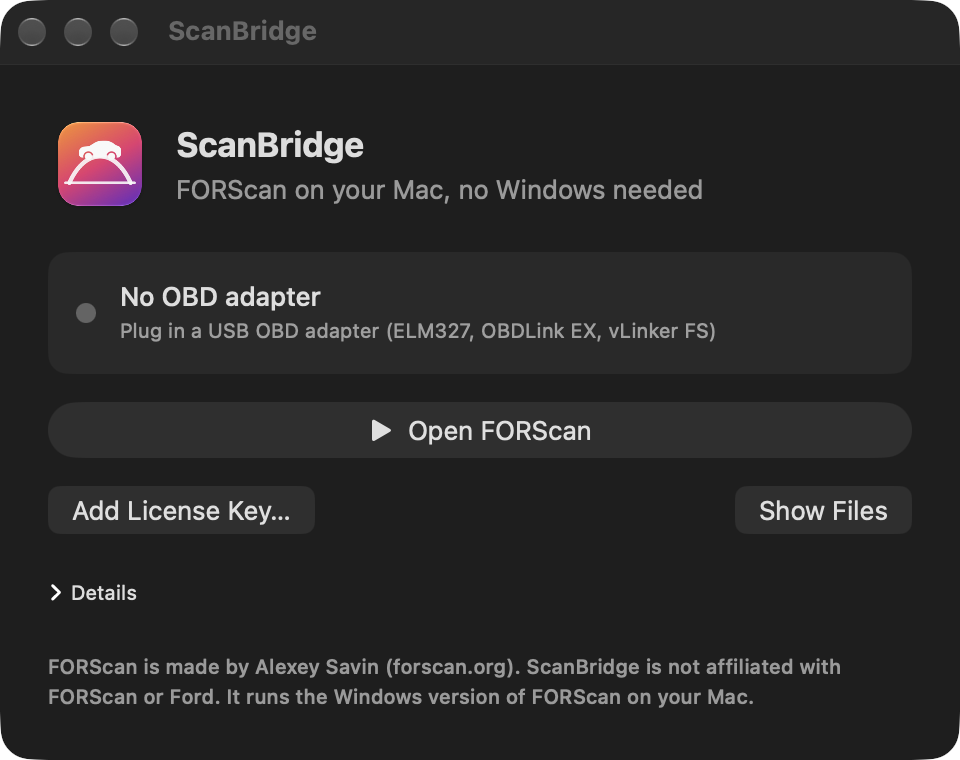
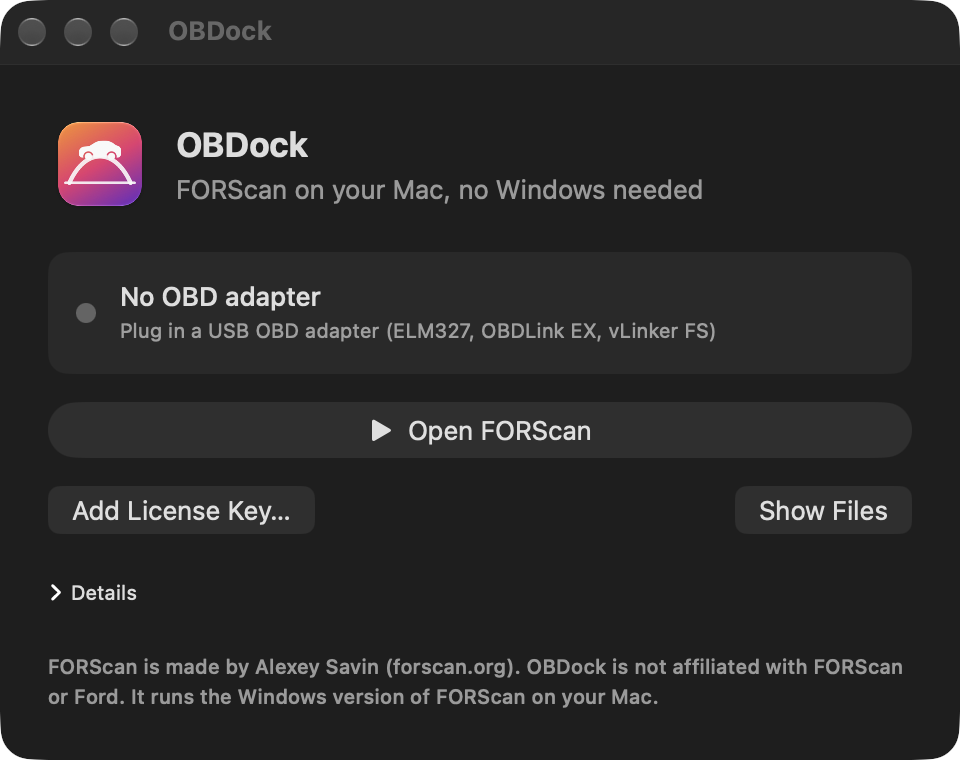
Rename ScanBridge to OBDock (0.1.1); move existing setup folder on first launch

Changed region(s): [[0.0312, 0.8474, 0.9375, 0.9382], [0.1875, 0.1513, 0.375, 0.2118], [0.1562, 0.0303, 0.3438, 0.0605]]

diff --git a/site/index.html b/site/index.html
@@ -3,7 +3,7 @@
 <head>
 <meta charset="utf-8">
 <meta name="viewport" content="width=device-width, initial-scale=1">
-<title>ScanBridge: FORScan on Mac</title>
+<title>OBDock: FORScan on Mac</title>
 <meta name="description" content="Run FORScan on an Apple Silicon Mac. Free, no Windows, no virtual machine. Reads and As-Built writes tested on a real Ford.">
 <link rel="icon" href="img/icon.png">
 <link rel="preconnect" href="https://fonts.googleapis.com">
@@ -83,44 +83,44 @@ footer p + p { margin-top: 8px; }
 <body>
 <div class="wrap">
   <nav>
-    <a class="brand" href="#"><img src="img/icon.png" alt="">ScanBridge</a>
+    <a class="brand" href="#"><img src="img/icon.png" alt="">OBDock</a>
     <div class="links">
       <a href="#how">How it works</a>
       <a href="#tested">Tested</a>
       <a href="#faq">FAQ</a>
-      <a href="https://github.com/lncch/ScanBridge">GitHub</a>
+      <a href="https://github.com/lncch/OBDock">GitHub</a>
     </div>
   </nav>
 
   <header class="hero">
     <span class="pill"><b>●</b> Reads and As-Built writes tested on a real Ford</span>
     <h1>FORScan on your Mac.<br>No Windows needed.</h1>
-    <p>ScanBridge sets up everything FORScan needs on an Apple Silicon Mac, finds your OBD adapter, and opens FORScan with one click. Free.</p>
+    <p>OBDock sets up everything FORScan needs on an Apple Silicon Mac, finds your OBD adapter, and opens FORScan with one click. Free.</p>
     <div class="cta">
-      <a class="btn primary" href="https://github.com/lncch/ScanBridge/releases/latest/download/ScanBridge.zip">Download for Mac</a>
-      <a class="btn" href="https://github.com/lncch/ScanBridge">View source</a>
+      <a class="btn primary" href="https://github.com/lncch/OBDock/releases/latest/download/OBDock.zip">Download for Mac</a>
+      <a class="btn" href="https://github.com/lncch/OBDock">View source</a>
     </div>
-    <p class="req">Apple Silicon · macOS 14 or later · USB OBD adapter · v0.1.0</p>
+    <p class="req">Apple Silicon · macOS 14 or later · USB OBD adapter · v0.1.1</p>
   </header>
 
   <div class="shots">
-    <figure><img src="img/setup.png" alt="ScanBridge one-time setup screen with Rosetta, Wine and FORScan steps"><figcaption>One-time setup, about 2 minutes</figcaption></figure>
-    <figure><img src="img/main.png" alt="ScanBridge main screen with adapter status and Open FORScan button"><figcaption>Plug in, click Open FORScan</figcaption></figure>
+    <figure><img src="img/setup.png" alt="OBDock one-time setup screen with Rosetta, Wine and FORScan steps"><figcaption>One-time setup, about 2 minutes</figcaption></figure>
+    <figure><img src="img/main.png" alt="OBDock main screen with adapter status and Open FORScan button"><figcaption>Plug in, click Open FORScan</figcaption></figure>
   </div>
 </div>
 
 <section id="how">
   <div class="wrap">
     <h2>How it works</h2>
-    <p class="lead">FORScan is a Windows app. ScanBridge runs it with Wine, a free layer that runs Windows programs on macOS, and connects it to your adapter.</p>
+    <p class="lead">FORScan is a Windows app. OBDock runs it with Wine, a free layer that runs Windows programs on macOS, and connects it to your adapter.</p>
     <div class="steps">
       <div class="step"><h3>Set up once</h3><p>Installs Rosetta, downloads Wine, and gets the official FORScan installer from forscan.org. You read and accept FORScan's license.</p></div>
-      <div class="step"><h3>Plug in</h3><p>ScanBridge spots your USB adapter and maps it to COM1, the port FORScan expects. Changed USB ports? It remaps.</p></div>
+      <div class="step"><h3>Plug in</h3><p>OBDock spots your USB adapter and maps it to COM1, the port FORScan expects. Changed USB ports? It remaps.</p></div>
       <div class="step"><h3>Open FORScan</h3><p>The full Windows FORScan, with its Extended license, configuration, and As-Built editing.</p></div>
     </div>
     <div class="diagram"><pre><b>FORScan.exe</b> ──▶ Wine (COM1) ──▶ <b>/dev/cu.usbserial</b> ──▶ OBD adapter ──▶ car (HS-CAN / MS-CAN)
          ▲
-   ScanBridge: setup, port mapping, start and stop</pre></div>
+   OBDock: setup, port mapping, start and stop</pre></div>
   </div>
 </section>
 
@@ -150,8 +150,8 @@ footer p + p { margin-top: 8px; }
     <h2>FAQ</h2>
     <details>
       <summary>macOS says the app "cannot be opened"</summary>
-      <p>ScanBridge isn't notarized by Apple yet. To open it the first time:</p>
-      <ol><li>Try to open ScanBridge once and close the warning.</li><li>Open System Settings → Privacy &amp; Security.</li><li>Scroll down and click <b>Open Anyway</b> next to ScanBridge.</li></ol>
+      <p>OBDock isn't notarized by Apple yet. To open it the first time:</p>
+      <ol><li>Try to open OBDock once and close the warning.</li><li>Open System Settings → Privacy &amp; Security.</li><li>Scroll down and click <b>Open Anyway</b> next to OBDock.</li></ol>
     </details>
     <details>
       <summary>Which adapters work?</summary>
@@ -163,15 +163,15 @@ footer p + p { margin-top: 8px; }
     </details>
     <details>
       <summary>Do I need a FORScan license?</summary>
-      <p>Reading codes works with the free Standard license. Changing settings needs the Extended license (a free 2-month trial at forscan.org). The key is tied to the computer's hardware ID, so get a key for the hardware ID FORScan shows on your Mac. In ScanBridge, click <b>Add License Key</b>, then load it in FORScan's About page.</p>
+      <p>Reading codes works with the free Standard license. Changing settings needs the Extended license (a free 2-month trial at forscan.org). The key is tied to the computer's hardware ID, so get a key for the hardware ID FORScan shows on your Mac. In OBDock, click <b>Add License Key</b>, then load it in FORScan's About page.</p>
     </details>
     <details>
       <summary>Is it safe to write settings?</summary>
-      <p>Writing settings can break a module if it goes wrong. Save a backup of each module's As-Built data first, keep a battery charger on, and don't change values you don't understand. ScanBridge passes FORScan's commands through and doesn't change them, but you use it at your own risk.</p>
+      <p>Writing settings can break a module if it goes wrong. Save a backup of each module's As-Built data first, keep a battery charger on, and don't change values you don't understand. OBDock passes FORScan's commands through and doesn't change them, but you use it at your own risk.</p>
     </details>
     <details>
-      <summary>Does ScanBridge include FORScan?</summary>
-      <p>No. ScanBridge downloads the official installer from forscan.org on your Mac. FORScan's installer crashes inside Wine today, so ScanBridge unpacks that same installer and copies its files unchanged.</p>
+      <summary>Does OBDock include FORScan?</summary>
+      <p>No. OBDock downloads the official installer from forscan.org on your Mac. FORScan's installer crashes inside Wine today, so OBDock unpacks that same installer and copies its files unchanged.</p>
     </details>
     <details>
       <summary>Will it keep working on future macOS versions?</summary>
@@ -182,8 +182,8 @@ footer p + p { margin-top: 8px; }
 
 <footer>
   <div class="wrap">
-    <p>FORScan is made by Alexey Savin (forscan.org). ScanBridge is an independent project, not affiliated with FORScan, Ford or Mazda.</p>
-    <p>Built by Almoayyad Abuljdail · <a href="https://github.com/lncch/ScanBridge">Source on GitHub</a></p>
+    <p>FORScan is made by Alexey Savin (forscan.org). OBDock is an independent project, not affiliated with FORScan, Ford or Mazda.</p>
+    <p>Built by Almoayyad Abuljdail · <a href="https://github.com/lncch/OBDock">Source on GitHub</a></p>
   </div>
 </footer>
 </body>

diff --git a/Sources/App.swift b/Sources/App.swift
@@ -1,7 +1,7 @@
 import SwiftUI
 
 @main
-struct ScanBridgeApp: App {
+struct OBDockApp: App {
     @StateObject private var engine = Engine()
 
     init() {
@@ -31,7 +31,7 @@ struct ScanBridgeApp: App {
     }
 
     var body: some Scene {
-        Window("ScanBridge", id: "main") {
+        Window("OBDock", id: "main") {
             ContentView()
                 .environmentObject(engine)
                 .frame(width: 480)
@@ -40,11 +40,11 @@ struct ScanBridgeApp: App {
         .windowResizability(.contentSize)
         .commands {
             CommandGroup(replacing: .appInfo) {
-                Button("About ScanBridge") { Self.showAbout() }
+                Button("About OBDock") { Self.showAbout() }
             }
             CommandGroup(replacing: .help) {
-                Link("ScanBridge on GitHub", destination: URL(string: "https://github.com/lncch/ScanBridge")!)
-                Link("Report a Problem", destination: URL(string: "https://github.com/lncch/ScanBridge/issues")!)
+                Link("OBDock on GitHub", destination: URL(string: "https://github.com/lncch/OBDock")!)
+                Link("Report a Problem", destination: URL(string: "https://github.com/lncch/OBDock/issues")!)
                 Divider()
                 Link("FORScan Website", destination: URL(string: "https://forscan.org")!)
             }
@@ -55,10 +55,10 @@ struct ScanBridgeApp: App {
         let text = """
         Runs FORScan on Apple Silicon Macs with Wine.
         Open source under the MIT license.
-        github.com/lncch/ScanBridge
+        github.com/lncch/OBDock
 
         FORScan is made by Alexey Savin (forscan.org).
-        ScanBridge is not affiliated with FORScan, Ford or Mazda.
+        OBDock is not affiliated with FORScan, Ford or Mazda.
         Uses Wine (LGPL) and innoextract (zlib).
         """
         let para = NSMutableParagraphStyle()
@@ -89,7 +89,7 @@ struct ContentView: View {
                 .frame(height: 90)
             }
             .font(.caption)
-            Text("FORScan is made by Alexey Savin (forscan.org). ScanBridge is not affiliated with FORScan or Ford. It runs the Windows version of FORScan on your Mac.")
+            Text("FORScan is made by Alexey Savin (forscan.org). OBDock is not affiliated with FORScan or Ford. It runs the Windows version of FORScan on your Mac.")
                 .font(.caption2)
                 .foregroundStyle(.secondary)
         }
@@ -108,7 +108,7 @@ struct ContentView: View {
                 .resizable()
                 .frame(width: 52, height: 52)
             VStack(alignment: .leading, spacing: 2) {
-                Text("ScanBridge").font(.title2.bold())
+                Text("OBDock").font(.title2.bold())
                 Text("FORScan on your Mac, no Windows needed").foregroundStyle(.secondary)
             }
         }

diff --git a/Sources/Engine.swift b/Sources/Engine.swift
@@ -5,7 +5,7 @@ enum StepState: Equatable {
     case waiting, running(String), done, failed(String)
 }
 
-/// Everything ScanBridge does outside its window: Rosetta, Wine, FORScan, the adapter.
+/// Everything OBDock does outside its window: Rosetta, Wine, FORScan, the adapter.
 @MainActor
 final class Engine: ObservableObject {
     // Wine build verified with FORScan and a real car on 2026-10-18.
@@ -39,12 +39,17 @@ final class Engine: ObservableObject {
     var ready: Bool { rosetta == .done && wine == .done && forscan == .done }
 
     init() {
-        // SCANBRIDGE_HOME lets a test run start from an empty folder.
-        if let home = ProcessInfo.processInfo.environment["SCANBRIDGE_HOME"] {
+        // OBDOCK_HOME lets a test run start from an empty folder.
+        if let home = ProcessInfo.processInfo.environment["OBDOCK_HOME"] {
             base = URL(fileURLWithPath: home)
         } else {
-            base = FileManager.default.urls(for: .applicationSupportDirectory, in: .userDomainMask)[0]
-                .appendingPathComponent("ScanBridge")
+            let support = FileManager.default.urls(for: .applicationSupportDirectory, in: .userDomainMask)[0]
+            base = support.appendingPathComponent("OBDock")
+            // The app was called ScanBridge in 0.1.0; keep that setup instead of downloading again.
+            let old = support.appendingPathComponent("ScanBridge")
+            if !FileManager.default.fileExists(atPath: base.path), FileManager.default.fileExists(atPath: old.path) {
+                try? FileManager.default.moveItem(at: old, to: base)
+            }
         }
         refreshSteps()
         poll()
@@ -64,8 +69,8 @@ final class Engine: ObservableObject {
     }
 
     func poll() {
-        // SCANBRIDGE_PORT lets a test use a fake adapter (e.g. ELM327-emulator's pty).
-        if let fake = ProcessInfo.processInfo.environment["SCANBRIDGE_PORT"] {
+        // OBDOCK_PORT lets a test use a fake adapter (e.g. ELM327-emulator's pty).
+        if let fake = ProcessInfo.processInfo.environment["OBDOCK_PORT"] {
             port = fake
             running = Self.forscanRunning(in: forscanDir)
             return

diff --git a/README.md b/README.md
@@ -1,18 +1,18 @@
-<p align="center"><img src="site/img/icon.png" width="128" alt="ScanBridge icon"></p>
+<p align="center"><img src="site/img/icon.png" width="128" alt="OBDock icon"></p>
 
-<h1 align="center">ScanBridge</h1>
+<h1 align="center">OBDock</h1>
 
 <p align="center">Run FORScan (Ford/Mazda diagnostics, Windows only) on an Apple Silicon Mac.<br>Free, no Windows, no virtual machine.</p>
 
-<p align="center"><a href="https://github.com/lncch/ScanBridge/releases/latest/download/ScanBridge.zip"><b>Download for Mac</b></a> · macOS 14+ · Apple Silicon · USB OBD adapter</p>
+<p align="center"><a href="https://github.com/lncch/OBDock/releases/latest/download/OBDock.zip"><b>Download for Mac</b></a> · macOS 14+ · Apple Silicon · USB OBD adapter</p>
 
 <p align="center"><img src="site/img/setup.png" width="420" alt="Setup screen"> <img src="site/img/main.png" width="420" alt="Main screen"></p>
 
-ScanBridge sets up Wine, downloads FORScan from forscan.org, maps your USB OBD adapter to COM1, and opens FORScan with one button.
+OBDock sets up Wine, downloads FORScan from forscan.org, maps your USB OBD adapter to COM1, and opens FORScan with one button.
 
 ## Install
 
-1. Download `ScanBridge.zip`, unzip it, and move ScanBridge to Applications.
+1. Download `OBDock.zip`, unzip it, and move OBDock to Applications.
 2. Open it. macOS blocks it the first time because it isn't notarized yet: open System Settings → Privacy & Security and click **Open Anyway**.
 3. Click **Set Up** and accept FORScan's license (about 2 minutes, ~230 MB download).
 4. Plug in your adapter and click **Open FORScan**.
@@ -31,17 +31,17 @@ Needs the Xcode command line tools, `brew install innoextract dylibbundler`.
 
 ## Test hooks
 
-    SCANBRIDGE_HOME=/tmp/empty ScanBridge.app/Contents/MacOS/ScanBridge --headless-setup
-    SCANBRIDGE_HOME=/tmp/empty SCANBRIDGE_PORT=/dev/ttys008 ScanBridge.app/Contents/MacOS/ScanBridge --headless-open
+    OBDOCK_HOME=/tmp/empty OBDock.app/Contents/MacOS/OBDock --headless-setup
+    OBDOCK_HOME=/tmp/empty OBDOCK_PORT=/dev/ttys008 OBDock.app/Contents/MacOS/OBDock --headless-open
 
-`SCANBRIDGE_PORT` points at a fake adapter such as ELM327-emulator's pseudo-terminal.
+`OBDOCK_PORT` points at a fake adapter such as ELM327-emulator's pseudo-terminal.
 
 ## Why not the official installer?
 
-FORScan's Inno Setup installer crashes under Wine 11 (access violation in kernel32 under WoW64, tested on Wine stable 11.0, devel 11.18, staging 11.18). ScanBridge tries it first. If it fails, it unpacks the same installer on your Mac with innoextract and copies its files unchanged.
+FORScan's Inno Setup installer crashes under Wine 11 (access violation in kernel32 under WoW64, tested on Wine stable 11.0, devel 11.18, staging 11.18). OBDock tries it first. If it fails, it unpacks the same installer on your Mac with innoextract and copies its files unchanged.
 
-FORScan is made by Alexey Savin. ScanBridge is not affiliated with FORScan or Ford.
+FORScan is made by Alexey Savin. OBDock is not affiliated with FORScan or Ford.
 
 ## License
 
-ScanBridge's code is MIT licensed (see `LICENSE`). FORScan, Wine and innoextract keep their own licenses (see `THIRD_PARTY.md`).
+OBDock's code is MIT licensed (see `LICENSE`). FORScan, Wine and innoextract keep their own licenses (see `THIRD_PARTY.md`).

diff --git a/THIRD_PARTY.md b/THIRD_PARTY.md
@@ -1,6 +1,6 @@
 # Third-party software
 
-ScanBridge downloads or bundles these. It ships none of FORScan's files.
+OBDock downloads or bundles these. It ships none of FORScan's files.
 
 | Software | How it is used | License |
 |---|---|---|
